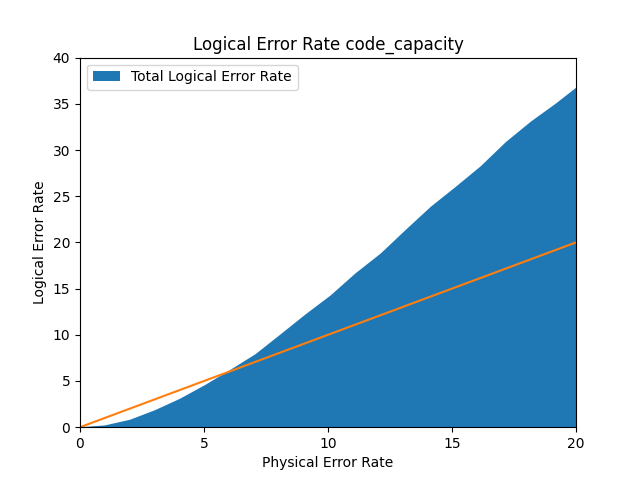
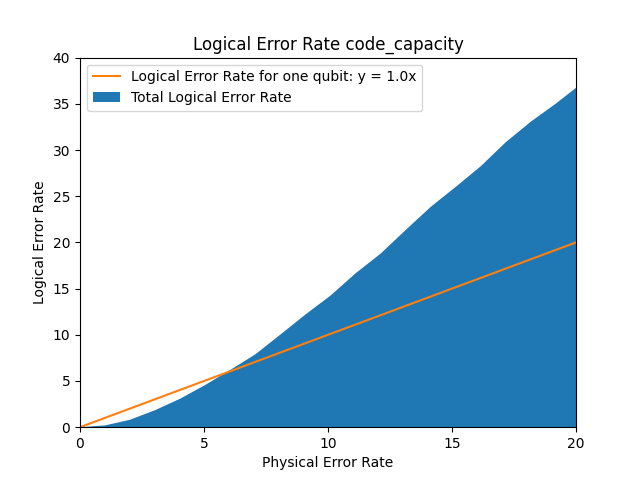
diagrams ready for report

Changed region(s): [[0.125, 0.125, 0.6562, 0.2188]]

diff --git a/bs13/BS13_PauliSim.py b/bs13/BS13_PauliSim.py
@@ -173,34 +173,35 @@ def SimulateEncoding(min_error_rate, max_error_rate, samples, repetitions, mode)
 
 if __name__ == "__main__":
     # Generate Data
-    repetitions = 100
+    repetitions = 100000
     x_tick_number = 100
     min_error_rate = 0
     max_error_rate = 1
     results_path = "./simulation results/"
-    # mode = "initialization_errors"
-    mode = "code_capacity"
-    physical_error_rate, no_error, error_detected, error_not_detected, error_corrected, error_not_corrected = SimulateEncoding(min_error_rate, max_error_rate, x_tick_number, repetitions, mode)
+    mode = "initialization_errors"
+    
+    # mode = "code_capacity"
+    # physical_error_rate, no_error, error_detected, error_not_detected, error_corrected, error_not_corrected = SimulateEncoding(min_error_rate, max_error_rate, x_tick_number, repetitions, mode)
 
-    data = np.vstack((physical_error_rate, no_error, error_detected, error_not_detected, error_corrected, error_not_corrected))
+    # data = np.vstack((physical_error_rate, no_error, error_detected, error_not_detected, error_corrected, error_not_corrected))
 
-    data = np.transpose(data)
+    # data = np.transpose(data)
     
 
-    np.savetxt(f"{results_path}simulation_data_{repetitions}_{x_tick_number}_{min_error_rate}_{max_error_rate}_{mode}.csv", data, delimiter = ",")
+    # np.savetxt(f"{results_path}simulation_data_{repetitions}_{x_tick_number}_{min_error_rate}_{max_error_rate}_{mode}.csv", data, delimiter = ",")
 
 
     # Load Data
-    # data = np.loadtxt(f"{results_path}simulation_data_{repetitions}_{x_tick_number}_{min_error_rate}_{max_error_rate}_{mode}.csv", delimiter =",")
+    data = np.loadtxt(f"{results_path}simulation_data_{repetitions}_{x_tick_number}_{min_error_rate}_{max_error_rate}_{mode}.csv", delimiter =",")
 
-    # data = np.transpose(data)
+    data = np.transpose(data)
 
-    # physical_error_rate = data[0]
-    # no_error = data[1].astype(np.uint32)
-    # error_detected = data[2].astype(np.uint32)
-    # error_not_detected = data[3].astype(np.uint32)
-    # error_corrected = data[4].astype(np.uint32)
-    # error_not_corrected = data[5].astype(np.uint32)
+    physical_error_rate = data[0]
+    no_error = data[1].astype(np.uint32)
+    error_detected = data[2].astype(np.uint32)
+    error_not_detected = data[3].astype(np.uint32)
+    error_corrected = data[4].astype(np.uint32)
+    error_not_corrected = data[5].astype(np.uint32)
 
 
     # plot error statistics before correction
@@ -226,16 +227,17 @@ if __name__ == "__main__":
     now = dt.datetime.now()
     plots_path = "./plots/"
     fig, ax = plt.subplots()
+    expected_logical_error_rate = 2/3*100
+    if mode == "code_capacity":
+        expected_logical_error_rate = 100
     proportions = [failed_detection_rate+ total_error_not_corrected_rate]
     labels = [
         "Total Logical Error Rate"
         ]
     ax.stackplot(physical_error_rate*100, proportions,
                 labels= labels)
-    expected_logical_error_rate = 66.6
-    if mode == "code_capacity":
-        expected_logical_error_rate = 100
-    ax.plot(physical_error_rate*100,physical_error_rate*expected_logical_error_rate)
+    
+    ax.plot(physical_error_rate*100,physical_error_rate*expected_logical_error_rate, label = f"Logical Error Rate for one qubit: y = {round(expected_logical_error_rate/100,2)}x")
     ax.legend(loc='upper left')
     ax.set_title(f'Logical Error Rate {mode}')
     plt.xticks(np.arange(100*min(physical_error_rate), 100*max(physical_error_rate)+1, 5))
@@ -246,25 +248,34 @@ if __name__ == "__main__":
 
     fig.savefig(f"{plots_path}Logical Error Rate Plot {mode}.png")
 
-    
-    fig, ax = plt.subplots()
-    proportions = [no_error_rate, total_error_corrected_rate, failed_detection_rate, total_error_not_corrected_rate]
+    expected_logical_error_rate_arr = physical_error_rate*expected_logical_error_rate/100
+    print(mode)
+    for i in range(len(physical_error_rate)):
+        if (expected_logical_error_rate_arr[i] - proportions[0][i]/100)*(expected_logical_error_rate_arr[i-1] - proportions[0][i-1]/100)<0:
+            print(expected_logical_error_rate_arr[i])
+            print(proportions[0][i]/100)
+            print(f"between {physical_error_rate[i]} and {physical_error_rate[i-1]}")
 
-    labels = [
-        "No Error",
-        "Error Corrected",
-        "Undetected Logical Error",
-        "Uncorrected Logical Error"
-        ]
-    ax.stackplot(physical_error_rate*100, proportions,
-                labels= labels)
-    ax.legend(loc='upper left')
-    ax.set_title(f'Proportion {mode}')
-    ax.set_xlabel('Physical Error Rate')
-    ax.set_ylabel('Proportion')
-    plt.xticks(np.arange(100*min(physical_error_rate), 100*max(physical_error_rate)+1, 5))
 
-    # ax.set_xlim(0, 20)
-    # ax.set_ylim(0, 50)
 
-    fig.savefig(f"{plots_path}Proportion of Results {mode}.png")
+    # fig, ax = plt.subplots()
+    # proportions = [no_error_rate, total_error_corrected_rate, failed_detection_rate, total_error_not_corrected_rate]
+
+    # labels = [
+    #     "No Error",
+    #     "Error Corrected",
+    #     "Undetected Logical Error",
+    #     "Uncorrected Logical Error"
+    #     ]
+    # ax.stackplot(physical_error_rate*100, proportions,
+    #             labels= labels)
+    # ax.legend(loc='upper left')
+    # ax.set_title(f'Proportion {mode}')
+    # ax.set_xlabel('Physical Error Rate')
+    # ax.set_ylabel('Proportion')
+    # plt.xticks(np.arange(100*min(physical_error_rate), 100*max(physical_error_rate)+1, 5))
+
+    # # ax.set_xlim(0, 20)
+    # # ax.set_ylim(0, 50)
+
+    # fig.savefig(f"{plots_path}Proportion of Results {mode}.png")
